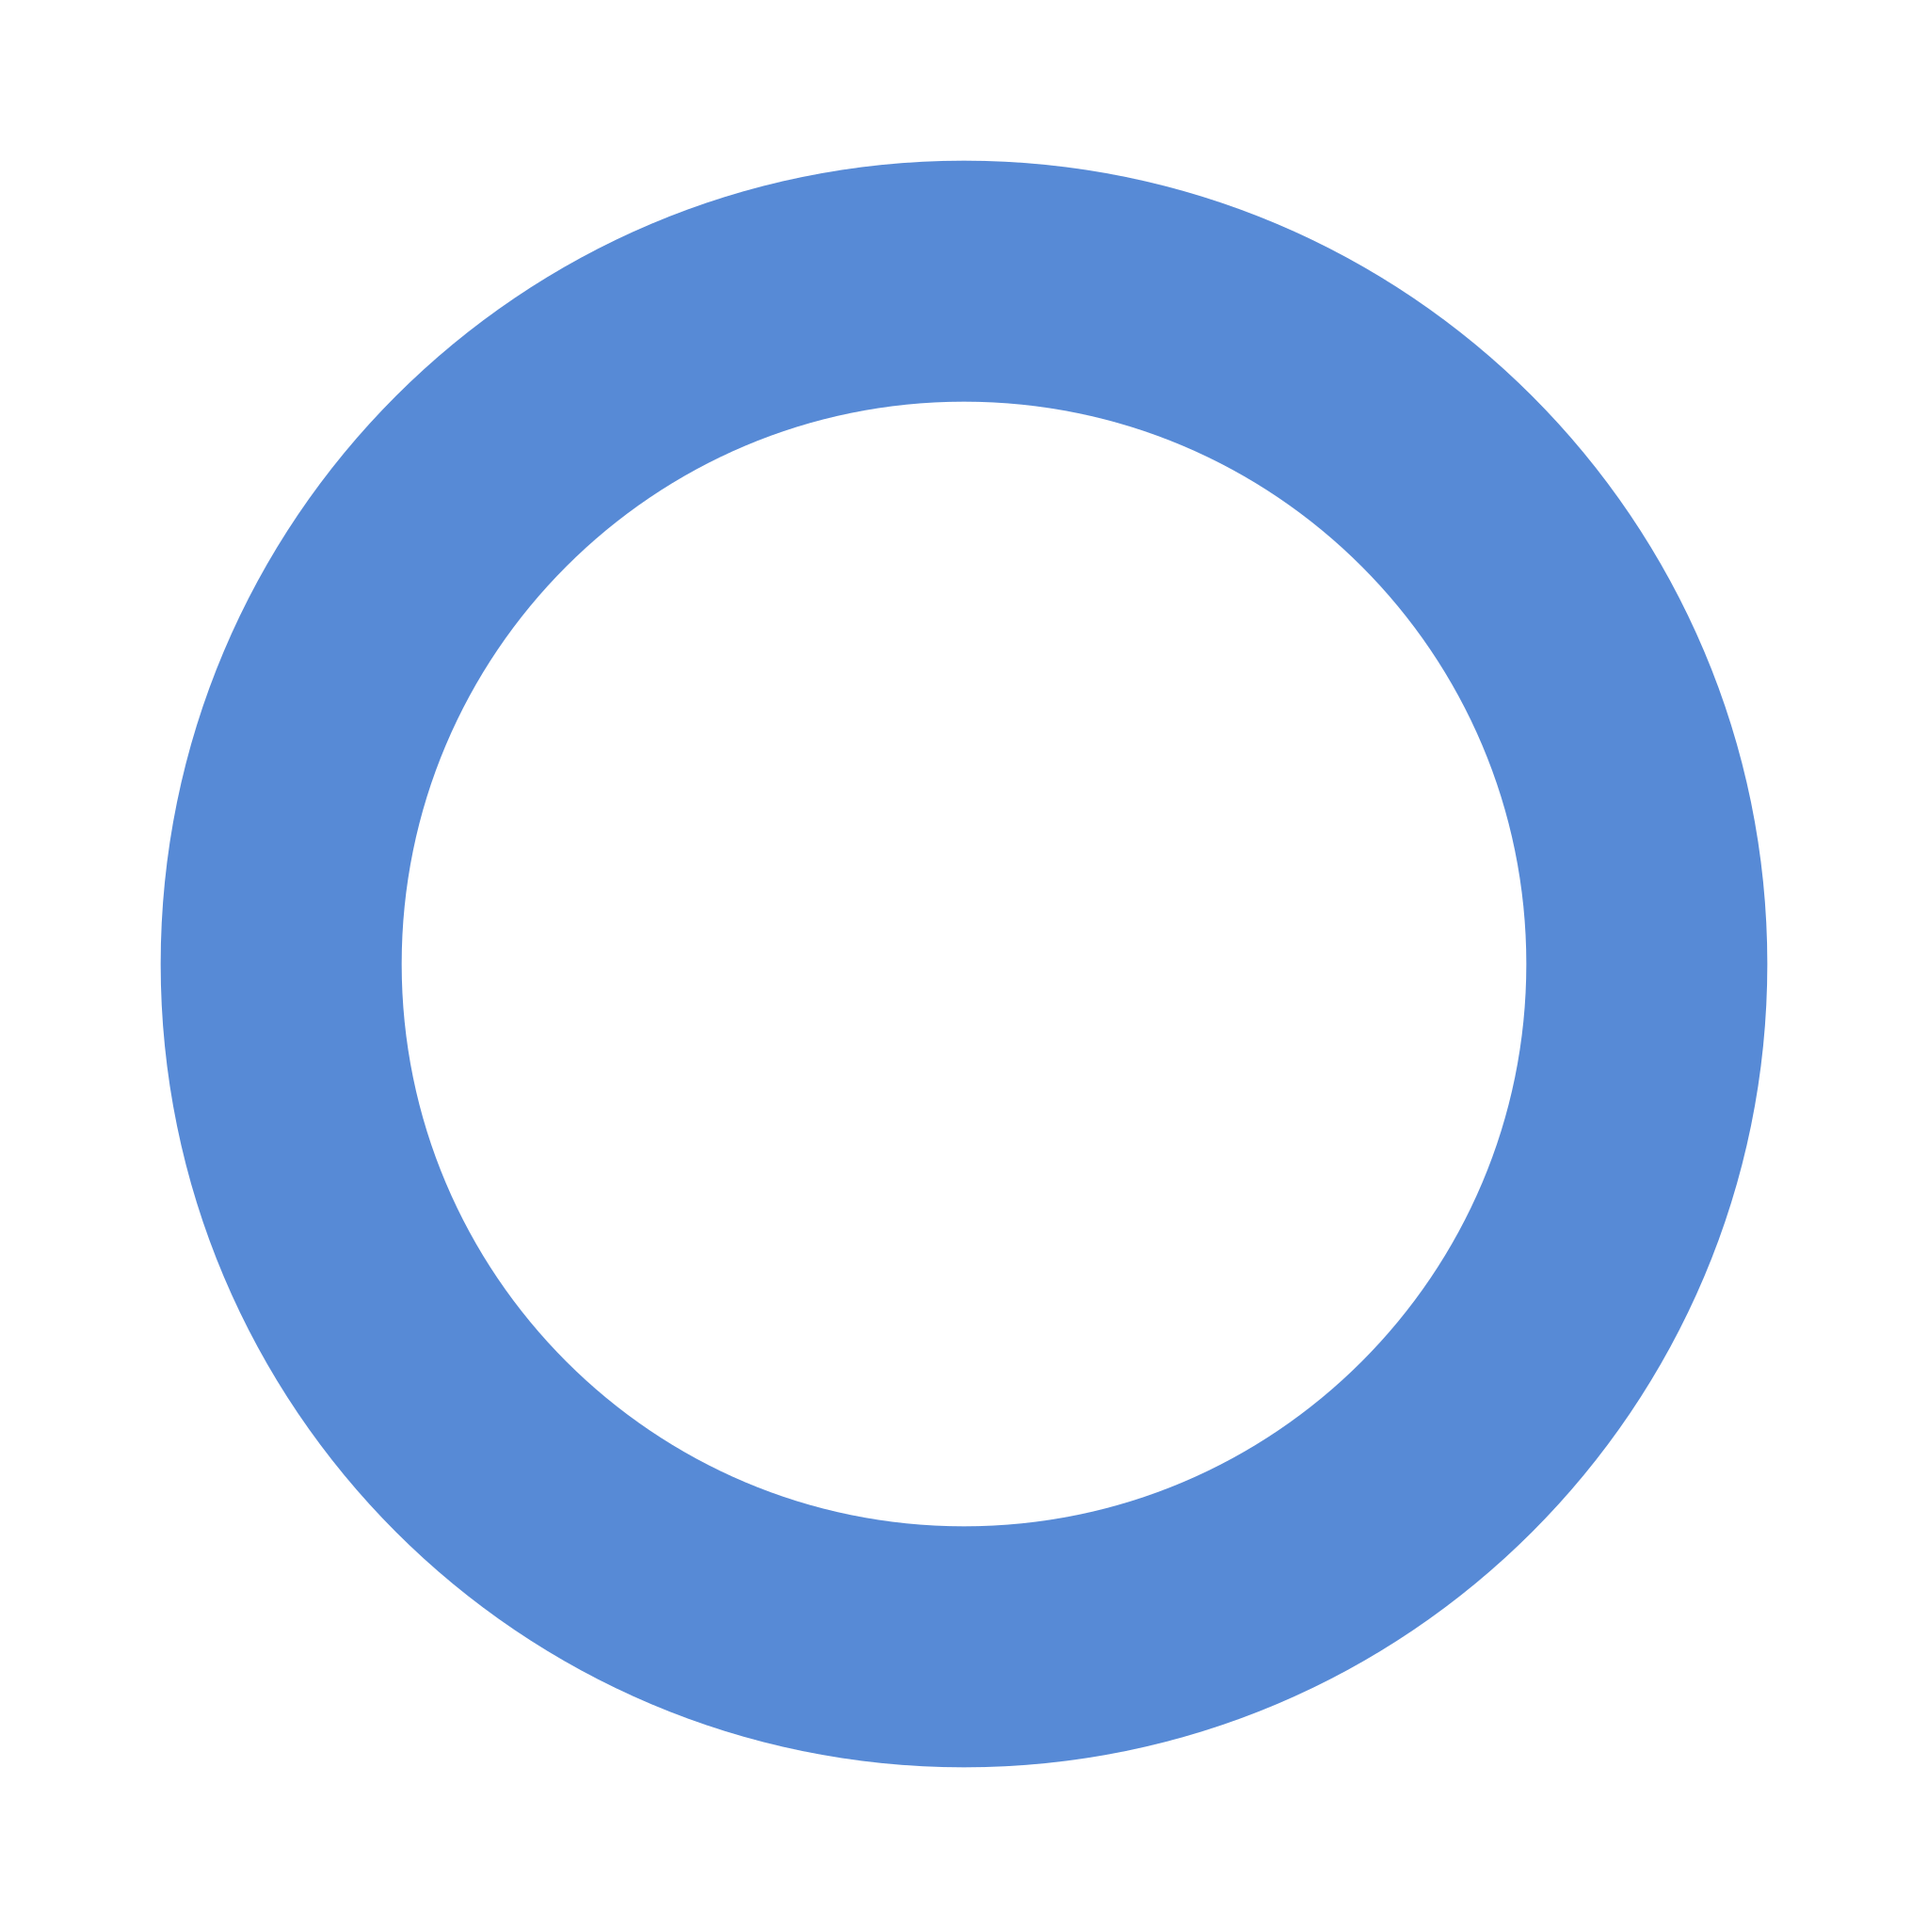
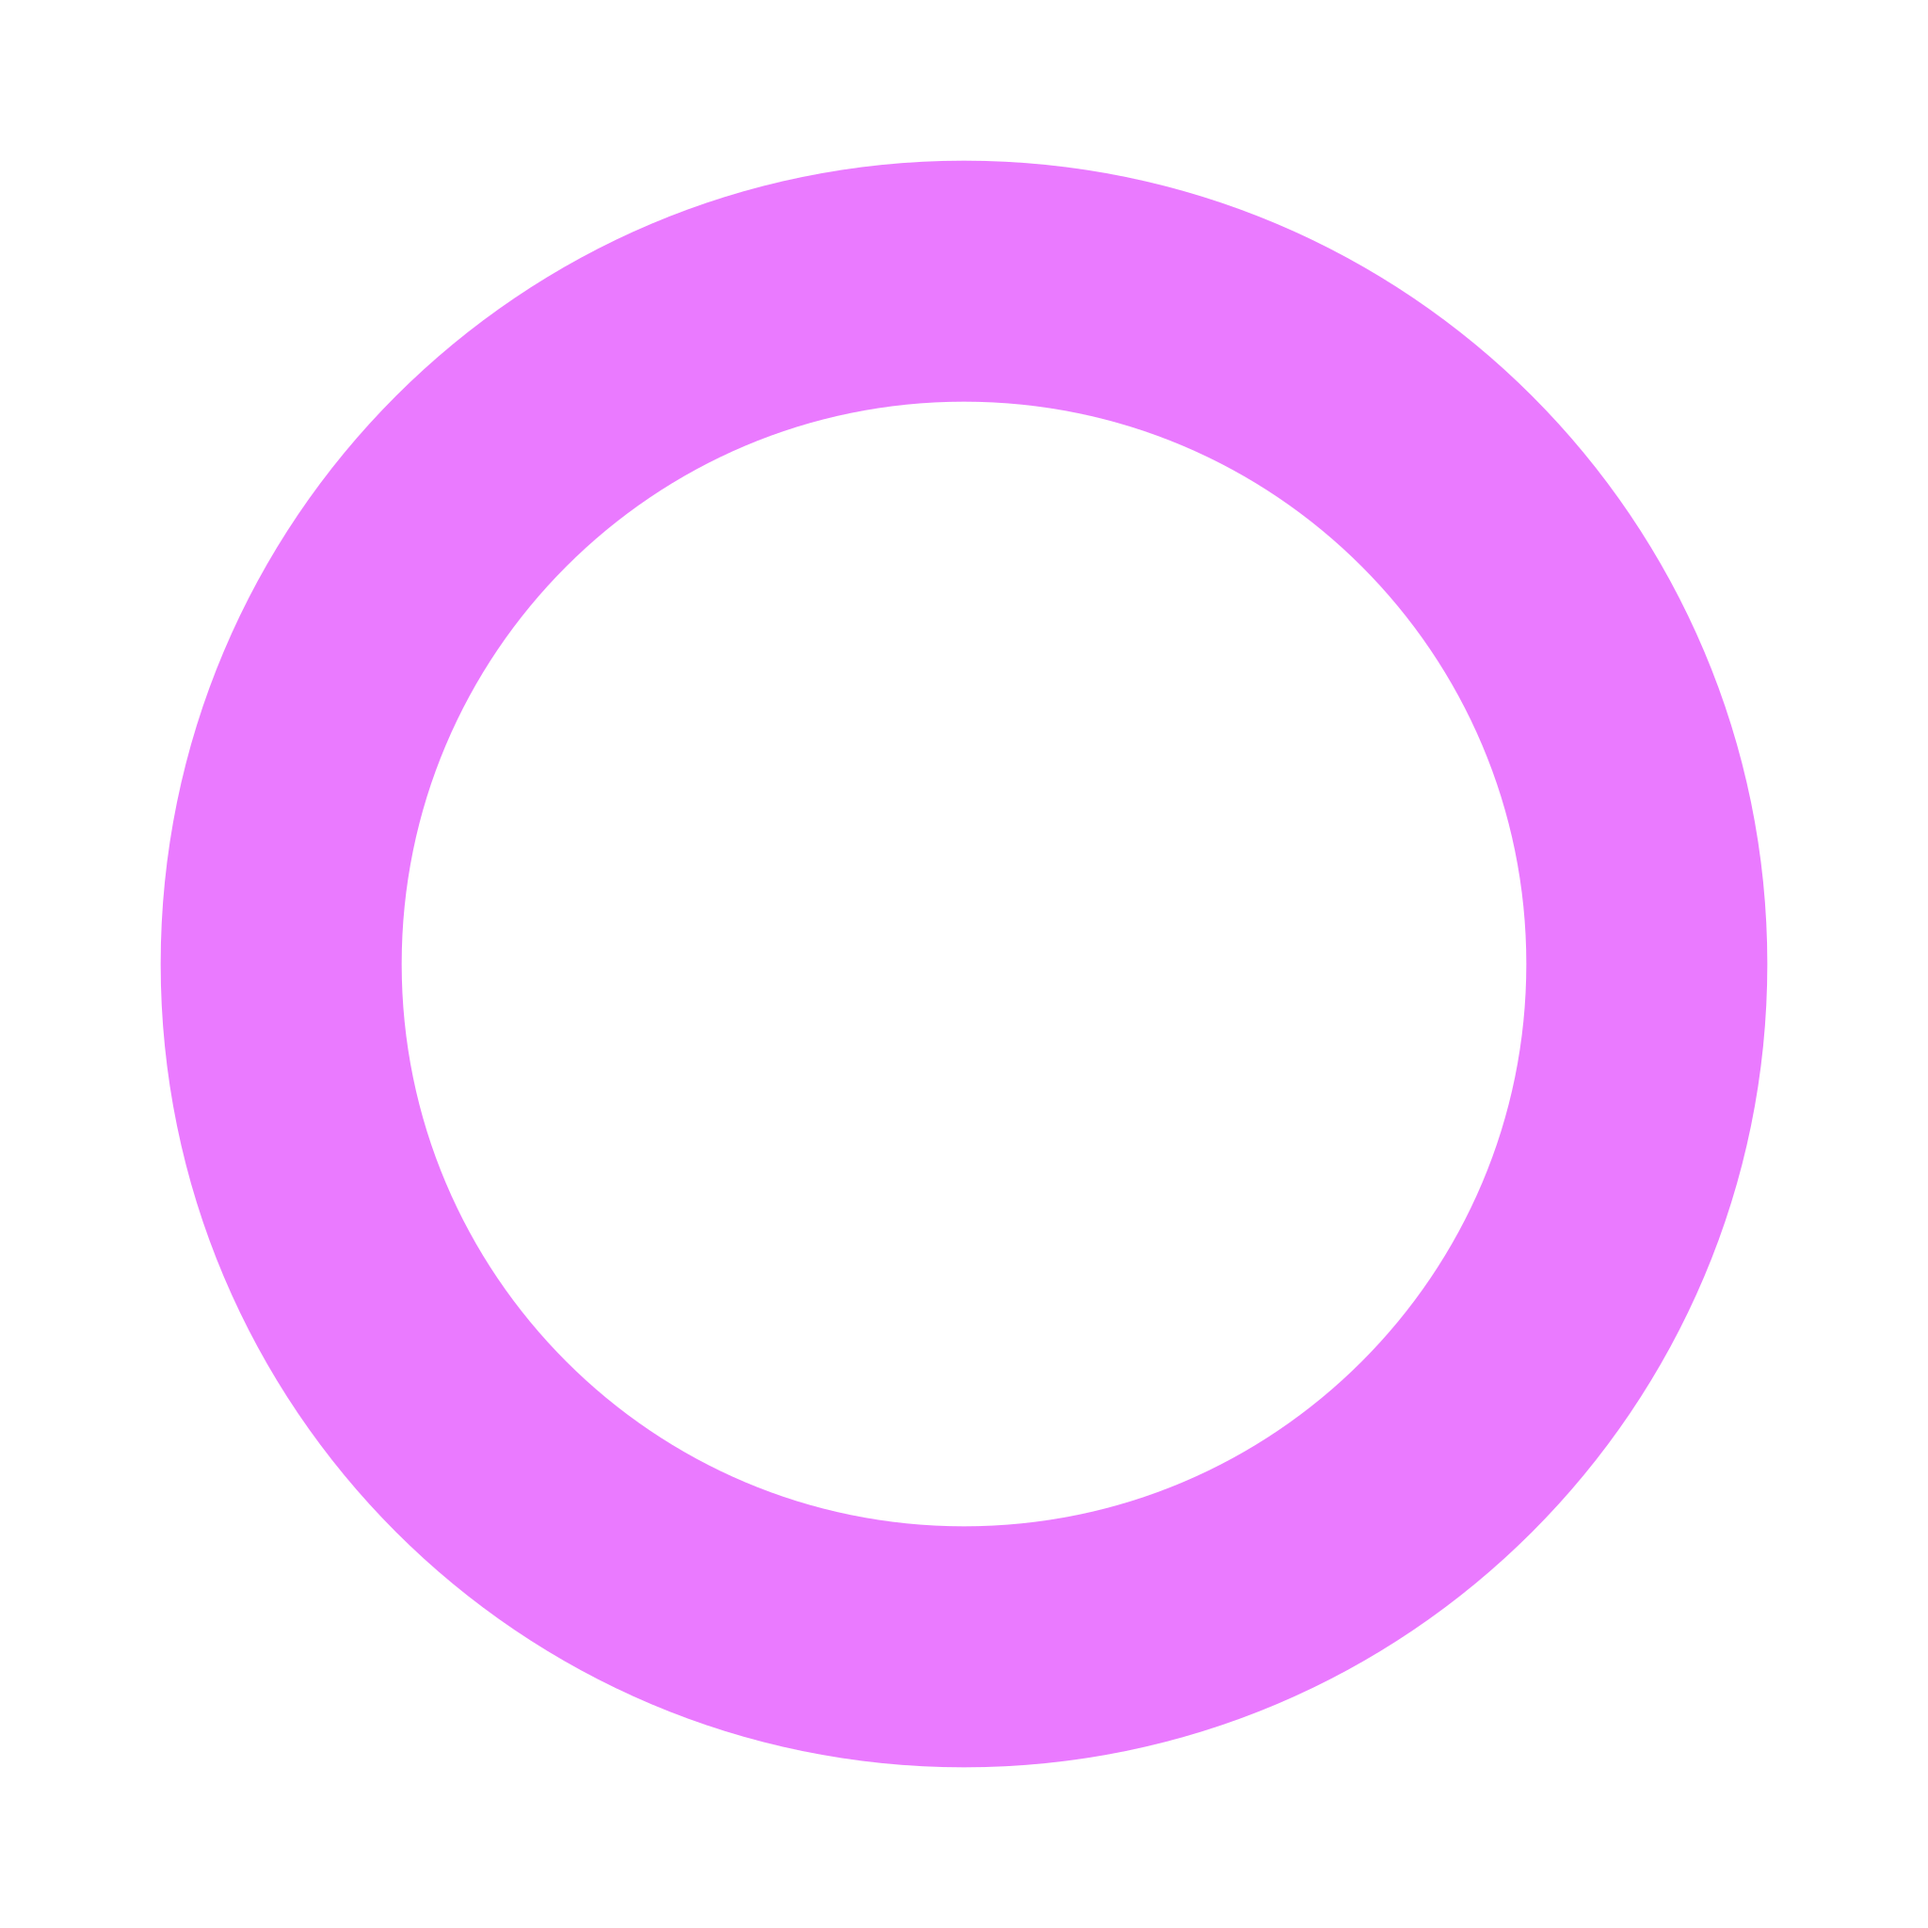
adding new ref image and changed color of marker for the website

Changed region(s): [[0.0625, 0.0625, 0.9375, 0.9375]]

diff --git a/score/index.js b/score/index.js
@@ -58,7 +58,7 @@ app.post('/', (req, res) => {
 })
 
 app.delete('/', (_req, res) => {
-	obj = {player_scores: [301, 301, 301, 301], current_player: 0, image: '/public/ref.jpg'};
+	obj = {player_scores: [301, 301, 301, 301], current_player: 0, image: '/public/ref.png'};
 
 	res.render('index', obj)
 })
@@ -90,7 +90,7 @@ app.post('/coord', (req, res) => {
 app.delete('/coord', (_req, res) => {
 	var new_image = 'public/combined' + new Date().getTime() + '.jpg';
 
-	sharp('public/ref.jpg')
+	sharp('public/ref.png')
 	  .toBuffer(function(err, buffer) {
 		fs.writeFile(new_image, buffer, function(e) {});
 			fs.unlinkSync(current_image);
@@ -101,7 +101,7 @@ app.delete('/coord', (_req, res) => {
 })
 
 server.listen(port, () => {
-  sharp('public/ref.jpg')
+  sharp('public/ref.png')
 	  .toBuffer(function(err, buffer) {
 		fs.writeFile(current_image, buffer, function(e) {});
 	  });

diff --git a/ScoreEvaluator.py b/ScoreEvaluator.py
@@ -136,7 +136,7 @@ class ScoreEvaluator:
 
 
     def check_if_no_dart(self, coordinate_list):
-        """Removes darrts from coordinate list that were not found
+        """Removes darts from coordinate list that were not found
         :param coordinate_list: list of coordinates
         :type coordinate_list: list
         :return: coordinate list
